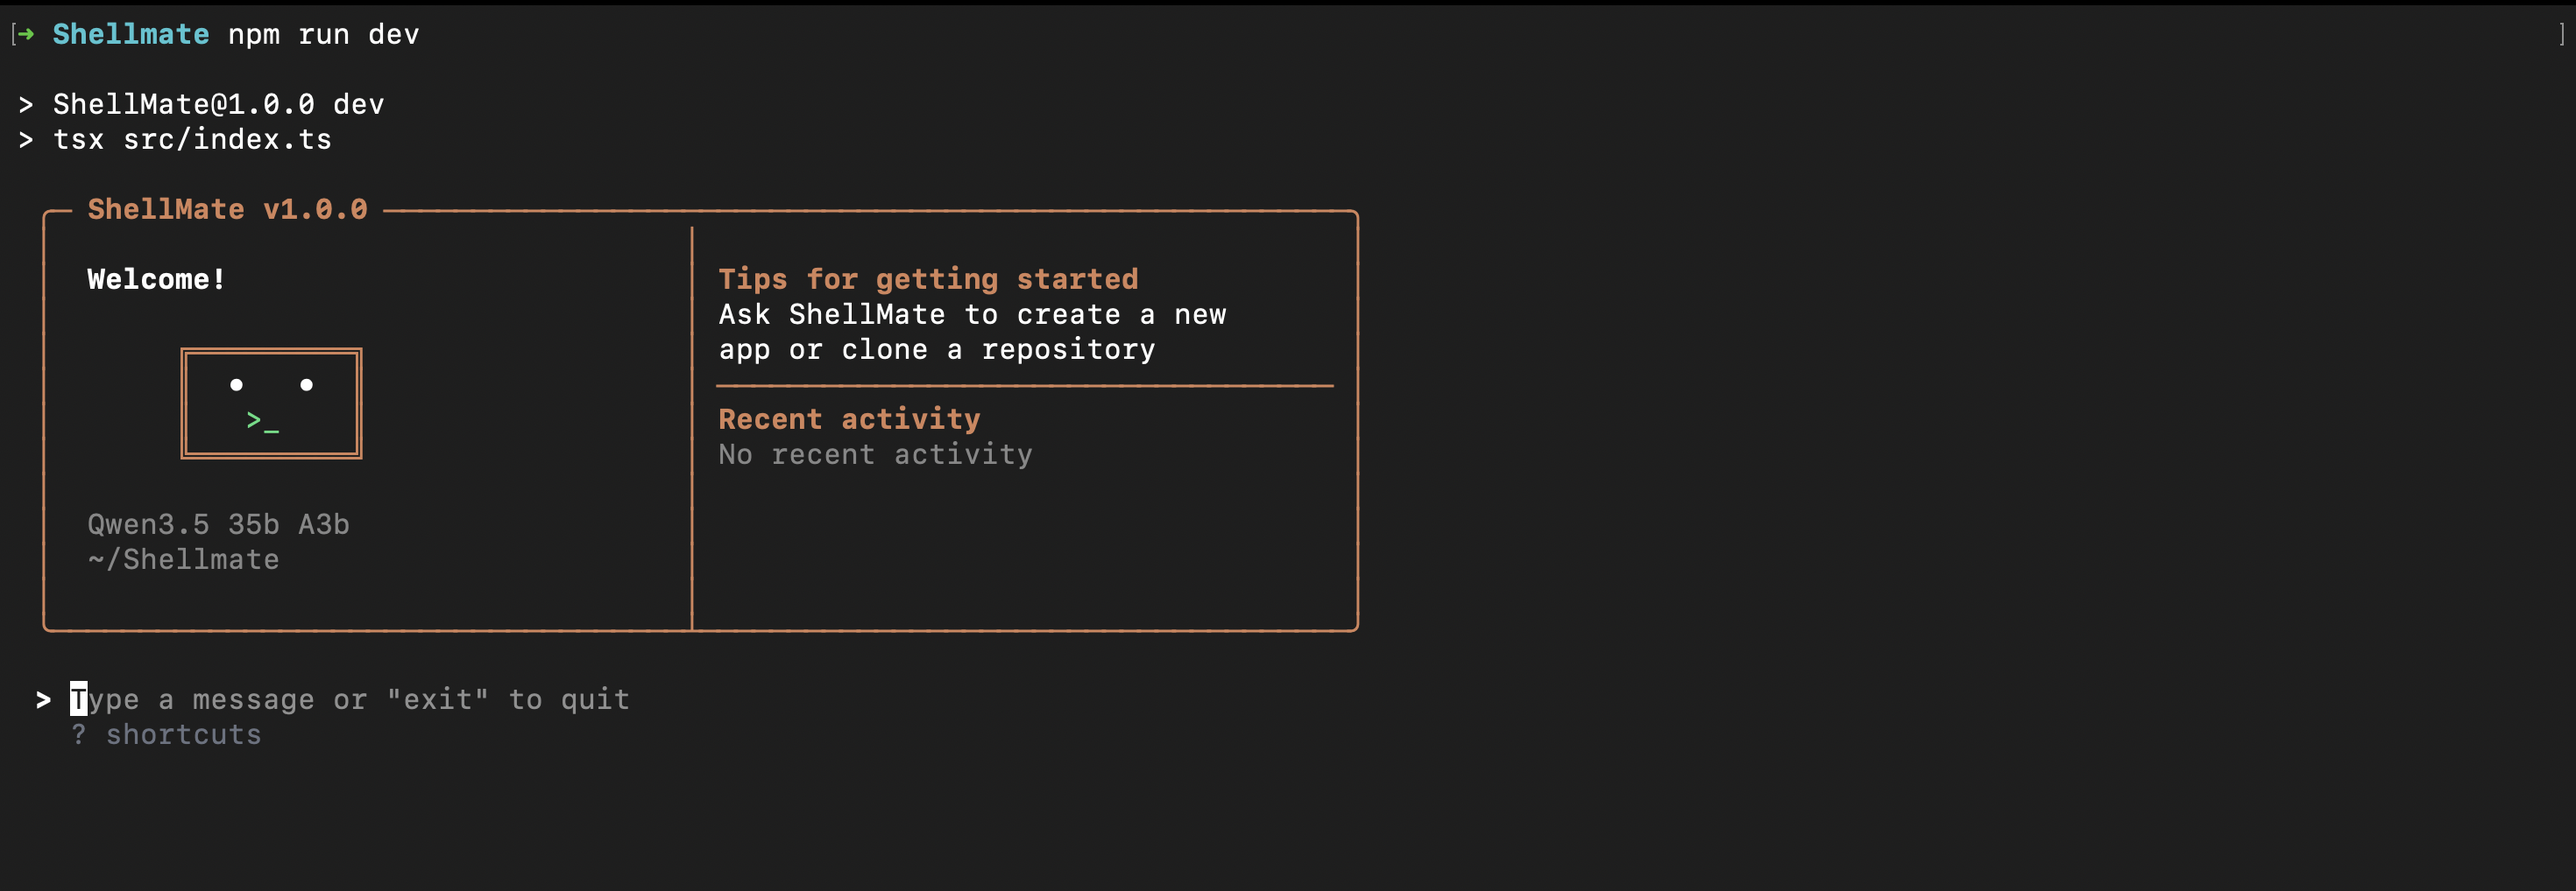
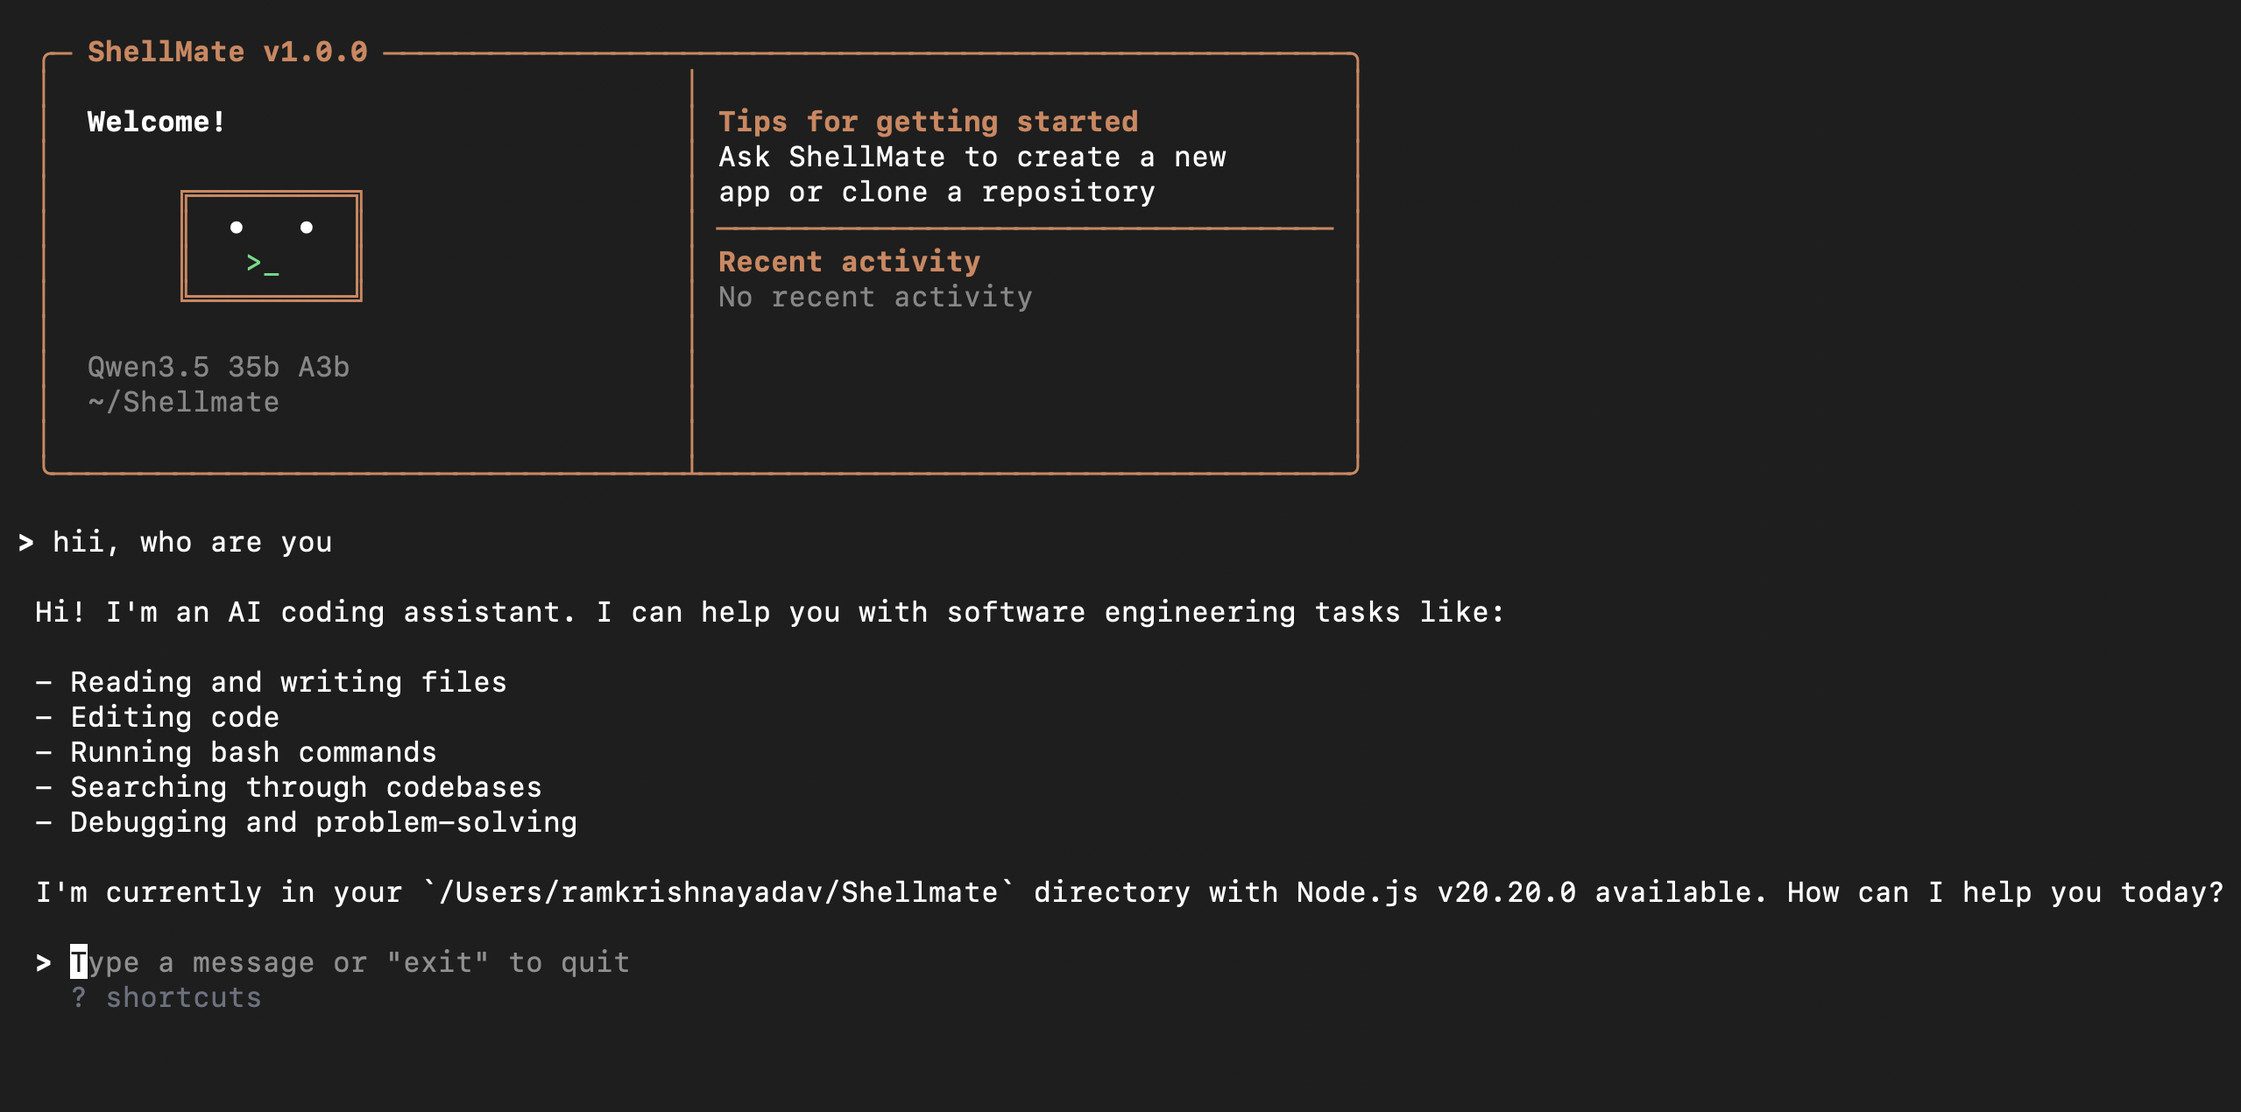
feat: remove welcome screen toggle and integrate welcome message display in MessageList

diff --git a/src/ui/REPL.tsx b/src/ui/REPL.tsx
@@ -12,14 +12,15 @@ import type { MessageLoopCallbacks } from "../core/messageLoop.js";
 interface REPLProps {
   apiKey: string;
   model: string;
-  onFirstMessage?: () => void;
 }
 
-export function REPL({ apiKey, model, onFirstMessage }: REPLProps) {
+export function REPL({ apiKey, model }: REPLProps) {
   const { exit } = useApp();
   const [completedMessages, setCompletedMessages] = useState<
     CompletedMessage[]
-  >([]);
+  >([
+    { id: "0", type: "welcome", content: "", model },
+  ]);
   const [streamingText, setStreamingText] = useState("");
   const [isLoading, setIsLoading] = useState(false);
   const [isExecutingTools, setIsExecutingTools] = useState(false);
@@ -40,9 +41,6 @@ export function REPL({ apiKey, model, onFirstMessage }: REPLProps) {
         exit();
         return;
       }
-
-      // Hide welcome screen on first message
-      onFirstMessage?.();
 
       // Add user message
       setCompletedMessages((prev) => [

diff --git a/src/ui/components/MessageList.tsx b/src/ui/components/MessageList.tsx
@@ -3,13 +3,15 @@ import { Box, Text, Static } from "ink";
 import Spinner from "ink-spinner";
 import type { ToolExecutionResult } from "../../core/toolExecutor.js";
 import { ToolResultDisplay } from "./ToolResult.js";
+import { WelcomeScreen } from "./WelcomeScreen.js";
 import { colors } from "../../utils/colors.js";
 
 export interface CompletedMessage {
   id: string;
-  type: "user" | "assistant" | "tool_results" | "error";
+  type: "user" | "assistant" | "tool_results" | "error" | "welcome";
   content: string;
   toolResults?: ToolExecutionResult[];
+  model?: string;
 }
 
 interface MessageListProps {
@@ -20,6 +22,10 @@ interface MessageListProps {
 }
 
 function MessageContent({ msg }: { msg: CompletedMessage }) {
+  if (msg.type === "welcome") {
+    return <WelcomeScreen model={msg.model || ""} />;
+  }
+
   if (msg.type === "user") {
     return (
       <Box marginBottom={1}>

diff --git a/src/ui/App.tsx b/src/ui/App.tsx
@@ -1,7 +1,6 @@
-import React, { useState, useCallback } from "react";
+import React from "react";
 import { Box } from "ink";
 import { REPL } from "./REPL.js";
-import { WelcomeScreen } from "./components/WelcomeScreen.js";
 
 interface AppProps {
   apiKey: string;
@@ -9,16 +8,9 @@ interface AppProps {
 }
 
 export function App({ apiKey, model }: AppProps) {
-  const [showWelcome, setShowWelcome] = useState(true);
-
-  const hideWelcome = useCallback(() => {
-    setShowWelcome(false);
-  }, []);
-
   return (
     <Box flexDirection="column">
-      {showWelcome && <WelcomeScreen model={model} />}
-      <REPL apiKey={apiKey} model={model} onFirstMessage={hideWelcome} />
+      <REPL apiKey={apiKey} model={model} />
     </Box>
   );
 }
